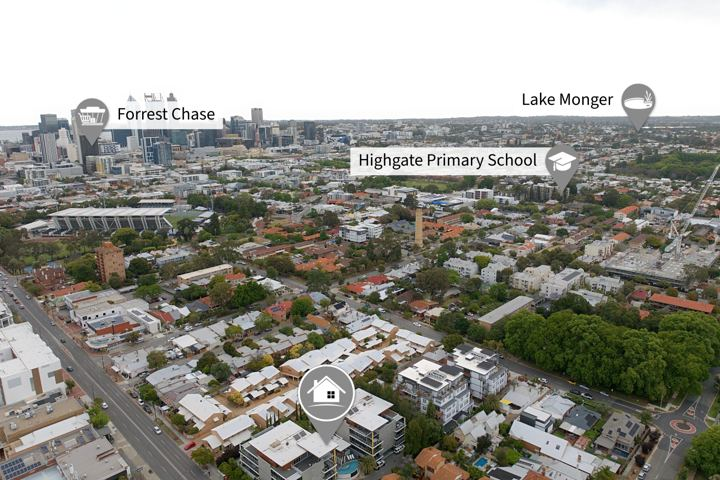
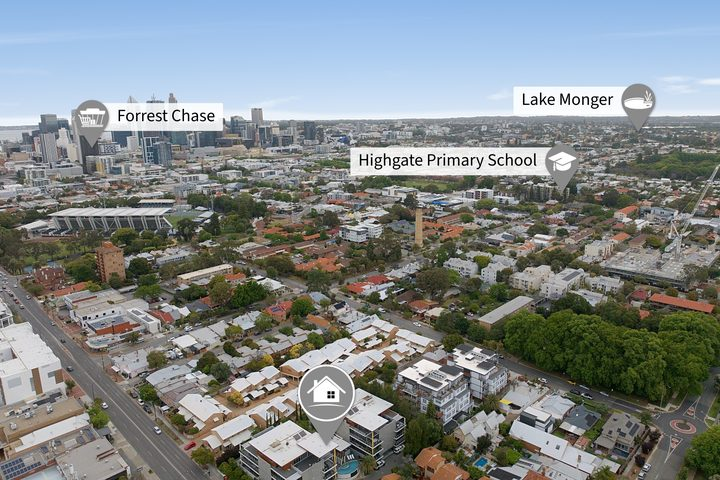
22/337 Lord St: sky replaced (overcast day shoot was treated as twilight)
Claude-Session: https://claude.ai/code/session_01A5qGg2LnJXxgSHoMQFvEEG

Changed region(s): [[0.0, 0.0, 1.0, 0.2812]]

diff --git a/aerials/28-oct-2026/index.html b/aerials/28-oct-2026/index.html
@@ -5,4 +5,4 @@ body{margin:0;background:var(--bg);color:var(--fg);font:15px/1.45 system-ui,-app
 header,section{max-width:1400px;margin:auto;padding:18px 16px}h1{font-size:20px;margin:0}h2{font-size:17px;margin:0}header p,section p{color:var(--mut);margin:4px 0 0}
 .ed{margin-left:10px;color:var(--acc);font-weight:600;text-decoration:none}a{color:var(--acc)}
 .g{display:grid;grid-template-columns:repeat(auto-fill,minmax(280px,1fr));gap:8px;margin-top:10px}.g img{width:100%;display:block;border-radius:4px}</style></head>
-<body><header><h1>Drone edits — Wed 28 Oct 2026</h1><p>Tap a photo for full size. <b>Edit</b> opens the job in the <a href="/pins/">editor</a> with all its pins and settings.</p></header><section><h2>414A Belgravia St, Cloverdale</h2><p>Devon Kelly · Laurie Kelly · 6 photos <a class="ed" href="/pins/?open=28-oct-2026/414a_belgravia_st">Edit</a></p><div class="g"><a href="414a_belgravia_st/DJI_20261028145953_0042_D.jpg?v=1793220199" target="_blank"><img loading="lazy" src="414a_belgravia_st/t/DJI_20261028145953_0042_D.jpg?v=1793220199" alt=""></a><a href="414a_belgravia_st/DJI_20261028150000_0043_D.jpg?v=1793220199" target="_blank"><img loading="lazy" src="414a_belgravia_st/t/DJI_20261028150000_0043_D.jpg?v=1793220199" alt=""></a><a href="414a_belgravia_st/DJI_20261028150019_0044_D.jpg?v=1793220199" target="_blank"><img loading="lazy" src="414a_belgravia_st/t/DJI_20261028150019_0044_D.jpg?v=1793220199" alt=""></a><a href="414a_belgravia_st/DJI_20261028150032_0045_D.jpg?v=1793220199" target="_blank"><img loading="lazy" src="414a_belgravia_st/t/DJI_20261028150032_0045_D.jpg?v=1793220199" alt=""></a><a href="414a_belgravia_st/DJI_20261028150044_0046_D.jpg?v=1793220199" target="_blank"><img loading="lazy" src="414a_belgravia_st/t/DJI_20261028150044_0046_D.jpg?v=1793220199" alt=""></a><a href="414a_belgravia_st/DJI_20261028150130_0049_D.jpg?v=1793220199" target="_blank"><img loading="lazy" src="414a_belgravia_st/t/DJI_20261028150130_0049_D.jpg?v=1793220199" alt=""></a></div></section><section><h2>90 Tibradden Cir, Ascot</h2><p>Devon Kelly · Laurie Kelly · 7 photos <a class="ed" href="/pins/?open=28-oct-2026/90_tibradden_cir">Edit</a><a class="ed" href="/pins/?open=28-oct-2026/90_tibradden_cir__nadir">Edit top-down</a></p><div class="g"><a href="90_tibradden_cir/dji_fly_20261028_164618_0918.jpg?v=1793242098" target="_blank"><img loading="lazy" src="90_tibradden_cir/t/dji_fly_20261028_164618_0918.jpg?v=1793242098" alt=""></a><a href="90_tibradden_cir/dji_fly_20261028_164652_0921.jpg?v=1793220205" target="_blank"><img loading="lazy" src="90_tibradden_cir/t/dji_fly_20261028_164652_0921.jpg?v=1793220205" alt=""></a><a href="90_tibradden_cir/dji_fly_20261028_164704_0922.jpg?v=1793220205" target="_blank"><img loading="lazy" src="90_tibradden_cir/t/dji_fly_20261028_164704_0922.jpg?v=1793220205" alt=""></a><a href="90_tibradden_cir/dji_fly_20261028_164724_0923.jpg?v=1793220205" target="_blank"><img loading="lazy" src="90_tibradden_cir/t/dji_fly_20261028_164724_0923.jpg?v=1793220205" alt=""></a><a href="90_tibradden_cir/dji_fly_20261028_164740_0924.jpg?v=1793220205" target="_blank"><img loading="lazy" src="90_tibradden_cir/t/dji_fly_20261028_164740_0924.jpg?v=1793220205" alt=""></a><a href="90_tibradden_cir/dji_fly_20261028_164924_0927.jpg?v=1793220205" target="_blank"><img loading="lazy" src="90_tibradden_cir/t/dji_fly_20261028_164924_0927.jpg?v=1793220205" alt=""></a><a href="90_tibradden_cir/dji_fly_20261028_164938_0928.jpg?v=1793220205" target="_blank"><img loading="lazy" src="90_tibradden_cir/t/dji_fly_20261028_164938_0928.jpg?v=1793220205" alt=""></a></div></section><section><h2>22/337 Lord St, Highgate</h2><p>Kylie Atkinson · Belle Property · 5 photos <a class="ed" href="/pins/?open=28-oct-2026/22_337_lord_st">Edit</a></p><div class="g"><a href="22_337_lord_st/DJI_20261028195141_0050_D.jpg?v=1793220207" target="_blank"><img loading="lazy" src="22_337_lord_st/t/DJI_20261028195141_0050_D.jpg?v=1793220207" alt=""></a><a href="22_337_lord_st/DJI_20261028195232_0052_D.jpg?v=1793220207" target="_blank"><img loading="lazy" src="22_337_lord_st/t/DJI_20261028195232_0052_D.jpg?v=1793220207" alt=""></a><a href="22_337_lord_st/DJI_20261028195251_0053_D.jpg?v=1793220207" target="_blank"><img loading="lazy" src="22_337_lord_st/t/DJI_20261028195251_0053_D.jpg?v=1793220207" alt=""></a><a href="22_337_lord_st/DJI_20261028195321_0054_D.jpg?v=1793220207" target="_blank"><img loading="lazy" src="22_337_lord_st/t/DJI_20261028195321_0054_D.jpg?v=1793220207" alt=""></a><a href="22_337_lord_st/DJI_20261028195346_0055_D.jpg?v=1793220207" target="_blank"><img loading="lazy" src="22_337_lord_st/t/DJI_20261028195346_0055_D.jpg?v=1793220207" alt=""></a></div></section><script src="../dl.js"></script></body></html>
+<body><header><h1>Drone edits — Wed 28 Oct 2026</h1><p>Tap a photo for full size. <b>Edit</b> opens the job in the <a href="/pins/">editor</a> with all its pins and settings.</p></header><section><h2>414A Belgravia St, Cloverdale</h2><p>Devon Kelly · Laurie Kelly · 6 photos <a class="ed" href="/pins/?open=28-oct-2026/414a_belgravia_st">Edit</a></p><div class="g"><a href="414a_belgravia_st/DJI_20261028145953_0042_D.jpg?v=1793220199" target="_blank"><img loading="lazy" src="414a_belgravia_st/t/DJI_20261028145953_0042_D.jpg?v=1793220199" alt=""></a><a href="414a_belgravia_st/DJI_20261028150000_0043_D.jpg?v=1793220199" target="_blank"><img loading="lazy" src="414a_belgravia_st/t/DJI_20261028150000_0043_D.jpg?v=1793220199" alt=""></a><a href="414a_belgravia_st/DJI_20261028150019_0044_D.jpg?v=1793220199" target="_blank"><img loading="lazy" src="414a_belgravia_st/t/DJI_20261028150019_0044_D.jpg?v=1793220199" alt=""></a><a href="414a_belgravia_st/DJI_20261028150032_0045_D.jpg?v=1793220199" target="_blank"><img loading="lazy" src="414a_belgravia_st/t/DJI_20261028150032_0045_D.jpg?v=1793220199" alt=""></a><a href="414a_belgravia_st/DJI_20261028150044_0046_D.jpg?v=1793220199" target="_blank"><img loading="lazy" src="414a_belgravia_st/t/DJI_20261028150044_0046_D.jpg?v=1793220199" alt=""></a><a href="414a_belgravia_st/DJI_20261028150130_0049_D.jpg?v=1793220199" target="_blank"><img loading="lazy" src="414a_belgravia_st/t/DJI_20261028150130_0049_D.jpg?v=1793220199" alt=""></a></div></section><section><h2>90 Tibradden Cir, Ascot</h2><p>Devon Kelly · Laurie Kelly · 7 photos <a class="ed" href="/pins/?open=28-oct-2026/90_tibradden_cir">Edit</a><a class="ed" href="/pins/?open=28-oct-2026/90_tibradden_cir__nadir">Edit top-down</a></p><div class="g"><a href="90_tibradden_cir/dji_fly_20261028_164618_0918.jpg?v=1793242098" target="_blank"><img loading="lazy" src="90_tibradden_cir/t/dji_fly_20261028_164618_0918.jpg?v=1793242098" alt=""></a><a href="90_tibradden_cir/dji_fly_20261028_164652_0921.jpg?v=1793220205" target="_blank"><img loading="lazy" src="90_tibradden_cir/t/dji_fly_20261028_164652_0921.jpg?v=1793220205" alt=""></a><a href="90_tibradden_cir/dji_fly_20261028_164704_0922.jpg?v=1793220205" target="_blank"><img loading="lazy" src="90_tibradden_cir/t/dji_fly_20261028_164704_0922.jpg?v=1793220205" alt=""></a><a href="90_tibradden_cir/dji_fly_20261028_164724_0923.jpg?v=1793220205" target="_blank"><img loading="lazy" src="90_tibradden_cir/t/dji_fly_20261028_164724_0923.jpg?v=1793220205" alt=""></a><a href="90_tibradden_cir/dji_fly_20261028_164740_0924.jpg?v=1793220205" target="_blank"><img loading="lazy" src="90_tibradden_cir/t/dji_fly_20261028_164740_0924.jpg?v=1793220205" alt=""></a><a href="90_tibradden_cir/dji_fly_20261028_164924_0927.jpg?v=1793220205" target="_blank"><img loading="lazy" src="90_tibradden_cir/t/dji_fly_20261028_164924_0927.jpg?v=1793220205" alt=""></a><a href="90_tibradden_cir/dji_fly_20261028_164938_0928.jpg?v=1793220205" target="_blank"><img loading="lazy" src="90_tibradden_cir/t/dji_fly_20261028_164938_0928.jpg?v=1793220205" alt=""></a></div></section><section><h2>22/337 Lord St, Highgate</h2><p>Kylie Atkinson · Belle Property · 5 photos <a class="ed" href="/pins/?open=28-oct-2026/22_337_lord_st">Edit</a></p><div class="g"><a href="22_337_lord_st/DJI_20261028195141_0050_D.jpg?v=1793242217" target="_blank"><img loading="lazy" src="22_337_lord_st/t/DJI_20261028195141_0050_D.jpg?v=1793242217" alt=""></a><a href="22_337_lord_st/DJI_20261028195232_0052_D.jpg?v=1793242217" target="_blank"><img loading="lazy" src="22_337_lord_st/t/DJI_20261028195232_0052_D.jpg?v=1793242217" alt=""></a><a href="22_337_lord_st/DJI_20261028195251_0053_D.jpg?v=1793242217" target="_blank"><img loading="lazy" src="22_337_lord_st/t/DJI_20261028195251_0053_D.jpg?v=1793242217" alt=""></a><a href="22_337_lord_st/DJI_20261028195321_0054_D.jpg?v=1793242217" target="_blank"><img loading="lazy" src="22_337_lord_st/t/DJI_20261028195321_0054_D.jpg?v=1793242217" alt=""></a><a href="22_337_lord_st/DJI_20261028195346_0055_D.jpg?v=1793242217" target="_blank"><img loading="lazy" src="22_337_lord_st/t/DJI_20261028195346_0055_D.jpg?v=1793242217" alt=""></a></div></section><script src="../dl.js"></script></body></html>
